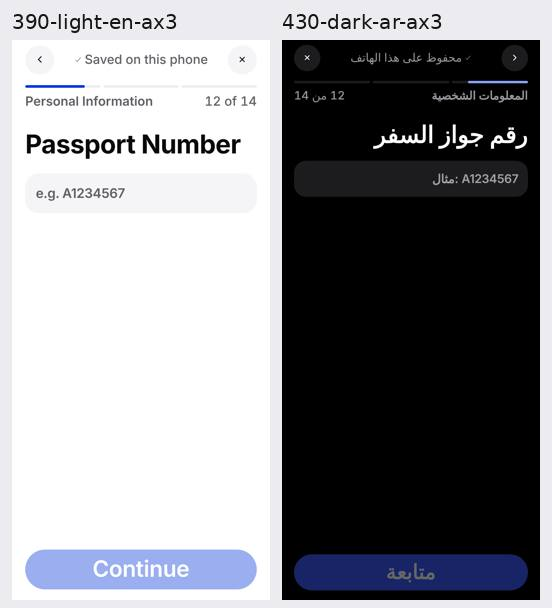
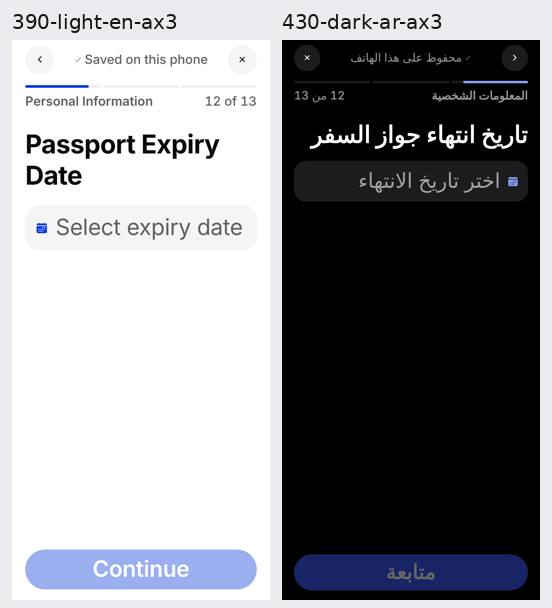
mobile: QA report and evidence on mobile-app 89c1b26 (passport number after payment); PR #13 targets mobile-app
Claude-Session: https://claude.ai/code/session_015V86NuUBpaRgvdukkc8QvD

diff --git a/mobile/docs/qa-report.md b/mobile/docs/qa-report.md
@@ -1,9 +1,9 @@
 # EZvisa app: QA and release readiness (chat 15)
 
-Date: 22 Oct 2026. Code verified: `mobile/` on branch `claude/vibrant-wright-ez44ch` = **`origin/mobile-app` @ `463000b`** (chats 02–14, then 03, 06, 08, 09, 11 and `main`, all merged in) + the chat 15 commits in §7. `mobile-app` can fast-forward to it.
+Date: 22 Oct 2026. Code verified: `mobile/` on branch `claude/vibrant-wright-ez44ch` = **`origin/mobile-app` @ `89c1b26`** (chats 02–14, then 03, 06, 08, 09, 11, `main` and the passport-number move, all merged in) + the chat 15 commits in §7. `mobile-app` can fast-forward to it.
 Expo SDK 57.0.30, React Native 0.86.3, expo-router 57.
 
-> Chats 02–14, 03, 06, 08, 09 and 11 landed on `mobile-app` **while this QA was running** (09:19–10:30 UTC). This branch merged them three times, and every result below is from the **last merge**. Commits pushed to `mobile-app` after `463000b` are not covered.
+> Chats 02–14, 03, 06, 08, 09 and 11 landed on `mobile-app` **while this QA was running** (09:19–10:30 UTC). This branch merged them four times, and every result below is from the **last merge**. Commits pushed to `mobile-app` after `89c1b26` are not covered.
 
 ## 0. What could and could not be tested here
 
@@ -47,8 +47,8 @@ Legend: **PASS** verified by the method named · **FAIL** verified broken · **N
 |---|---|---|---|---|
 | 1 | Sign in | Email + password, wrong password, unconfirmed email, rate limit, no internet, double tap, magic link, reset password | PASS (mocked) / NOT RUN (live) | `auth-e2e-web.mjs` 29/29 |
 | 2 | Sign in | Signed-out start shows Welcome; guest can continue without an account | PASS (web) | walk check `welcome-signed-out`; `docs/qa/welcome.jpg` |
-| 3 | Wizard (pre-payment) | Destination → Nationality (visa-required) → Residence (UAE only) → City (7 emirates, no flags) → Emirates ID → name, email, phone, DOB → Valid passport → Passport number → Expiry | PASS (web, 10 runs) | checks `wizard-order`, `residence-uae-only`, `city-emirates`, `city-no-flags`; `wizard-04.jpg`, `wizard-11.jpg`, `wizard-12.jpg` |
-| 4 | Wizard | Valid passport "No" → "You can continue… add it later", Continue goes to Marital Status; Back + "Yes" → Passport Number | PASS (web, 10 runs) | `passport-no-note`, `passport-no-continues`, `back-to-passport`, `passport-number-after-valid`; `wizard-11-no.jpg` |
+| 3 | Wizard (pre-payment) | Destination → Nationality (visa-required) → Residence (UAE only) → City (7 emirates, no flags) → Emirates ID → name, email, phone, DOB → Valid passport → Expiry (the passport **number** is asked after payment since `527dab4`) | PASS (web, 10 runs) | checks `wizard-order`, `residence-uae-only`, `city-emirates`, `city-no-flags`, `expiry-after-valid`; `wizard-04.jpg`, `wizard-11.jpg`, `wizard-12.jpg` |
+| 4 | Wizard | Valid passport "No" → "You can continue… add it later", Continue goes to Marital Status; Back + "Yes" → Passport Expiry | PASS (web, 10 runs) | `passport-no-note`, `passport-no-continues`, `back-to-passport`, `expiry-after-valid`; `wizard-11-no.jpg`, `wizard-11-no-next.jpg` |
 | 5 | Wizard | Review shows "To get later: Valid passport, Emirates ID" and no missing-answer error | PASS (web, 8/8) | `review.jpg` (the button reads "Unavailable" only because this build has no Supabase key) |
 | 6 | Wizard (employed) | Continue application: job title + company, start date, salary, NOC optional ("No" → "add it later") | PASS (static) / NOT RUN | `app/continue/[id].tsx`; needs a paid application to render |
 | 7 | Wizard (self-employed) | Company + income, **no NOC**, NOC not in the checklist | PASS (static) | `continue/[id].tsx` (`hasNOC: emp ? … : ""`), `lib/questions.ts` (`applies: EMP`), `lib/data.ts listRequirements` |
@@ -104,10 +104,10 @@ Legend: **PASS** verified by the method named · **FAIL** verified broken · **N
 | No fake data | PASS after fixes | §4; open question S2-2 |
 | Nationality single, visa-required | PASS | `lib/questions.ts`, `lib/wizard.ts` `SCHENGEN_VISA_REQUIRED` |
 | Residence UAE only; city = 7 emirates, no flags | PASS | web checks |
-| Valid passport before passport number | PASS | question order + web check |
+| Valid passport before passport number | PASS | validity is asked in the wizard; the number after payment (`validatePassportNumber`, skipped when the answer is No) |
 | No NOC for self-employed | PASS | matrix #7 |
 | "No" to a document never blocks (owner, chat 15) | PASS | matrix #4/#5 |
-| Branch is mobile-app | PARTIAL | work is based on `mobile-app` and pushed to `claude/vibrant-wright-ez44ch` (this session can push only there). PR [#13](https://github.com/kirolosedward1/EZvisa-anitgravity/pull/13) was opened against **`main`**; it should target `mobile-app` (see WAITING FOR APPROVAL) |
+| Branch is mobile-app | PARTIAL | work is based on `mobile-app` and pushed to `claude/vibrant-wright-ez44ch` (this session can push only there). PR [#13](https://github.com/kirolosedward1/EZvisa-anitgravity/pull/13) now targets `mobile-app` (retargeted from `main` on the owner's approval) |
 
 ## 6. Open issues
 
@@ -176,7 +176,7 @@ Legend: **PASS** verified by the method named · **FAIL** verified broken · **N
 | `0bc7870` | no invented dossier file (superseded by chat 09's version in the merge) |
 | `d679575` | node checks build again after chat 03 (`expo-secure-store` stub) |
 | `1a50987` | **payment result reachable signed out** (guest whose app restarted) |
-| `e73b8ea`, `b47d7fe`, `cdce290` | merges of `mobile-app` (chats 02–14; 03, 08, 11; 06, 09 + main) |
+| `e73b8ea`, `b47d7fe`, `cdce290`, `fb04efc` | merges of `mobile-app` (chats 02–14; 03, 08, 11; 06, 09 + main; passport number after payment) |
 | `d4b6ebe`, this commit | QA report, evidence sheets, handoff |
 
 ## 8. EAS Update (preview)

diff --git a/mobile/HANDOFF.md b/mobile/HANDOFF.md
@@ -6,7 +6,7 @@ This lives in `mobile/` of the website repo `kirolosedward1/EZvisa-anitgravity`,
 
 ## 0. Status on 2026-10-22 (chat 15, QA): read this before sections 1-3
 - **Final QA status: NOT READY FOR PRODUCTION TESTING.** Report and evidence: `docs/qa-report.md`, `docs/qa/*.jpg`, `docs/qa/web-checks.json`.
-- Verified code: branch `claude/vibrant-wright-ez44ch` = `mobile-app` @ `463000b` (merged in) + chat 15 commits; `mobile-app` can fast-forward to it. Later `mobile-app` commits are not covered.
+- Verified code: branch `claude/vibrant-wright-ez44ch` = `mobile-app` @ `89c1b26` (merged in) + chat 15 commits; PR #13 targets `mobile-app`; `mobile-app` can fast-forward to it. Later `mobile-app` commits are not covered.
 - Results: tsc 0 errors, lint 0 errors; node tests privacy 24/24, upload 24/24, secure storage 12/12, timeline ALL PASS; mocked e2e auth 29/29, payment 20/20, drafts 17/17; web walk 235/235 checks at 390/430, light/dark, EN/AR, largest text.
 - Chat 15 fixes: payment result reachable signed out (guest whose app restarted; `app/_layout.tsx`), document "No" never blocks + "To get later" (owner rule; `lib/wizard.ts missingDocs()`, saved as `additional_notes.missingDocuments`), Arabic gaps, 44pt targets, receipts from `payment_amount` only, privacy manifest / unused permissions / export compliance, `eas.json`, `npm ci`.
 - EAS Update NOT published (no token; expo.dev blocked from the container). Preview still serves `e866e894…` (old DB). Command: `docs/qa-report.md` §8. **Always `expo export --clear`**: Metro reused a stale `EXPO_PUBLIC_SUPABASE_URL` during this QA.
